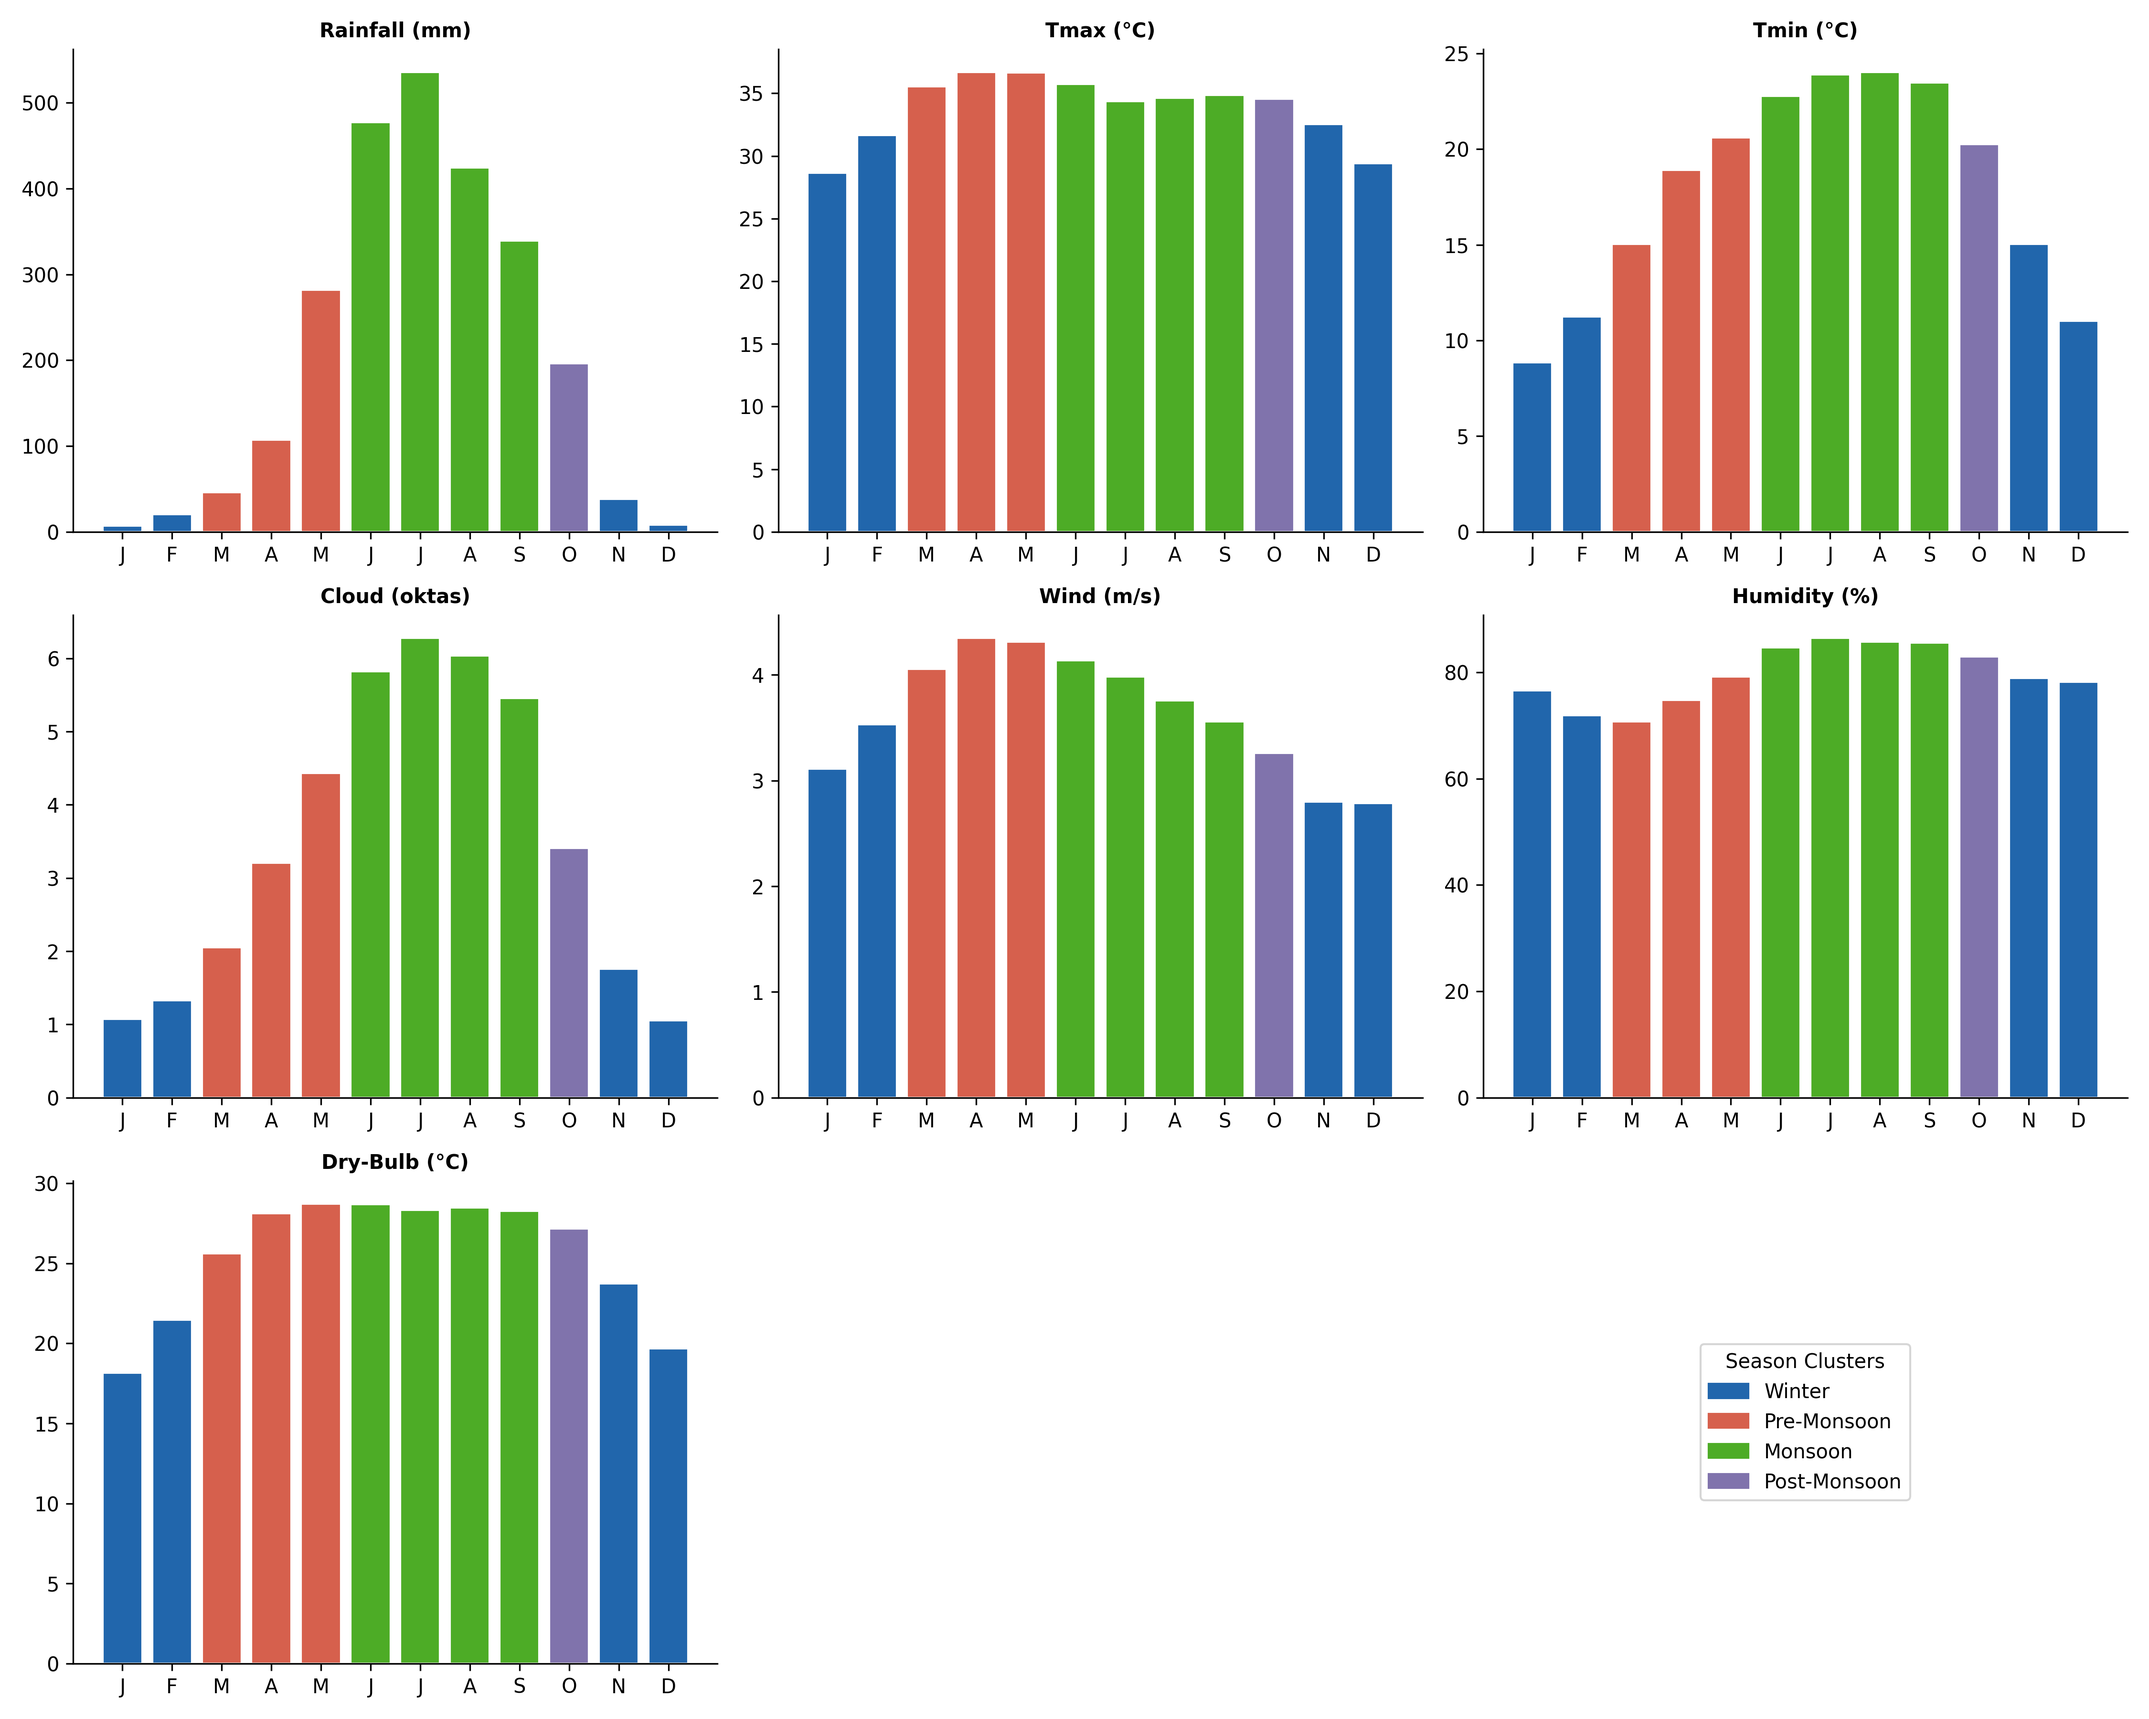
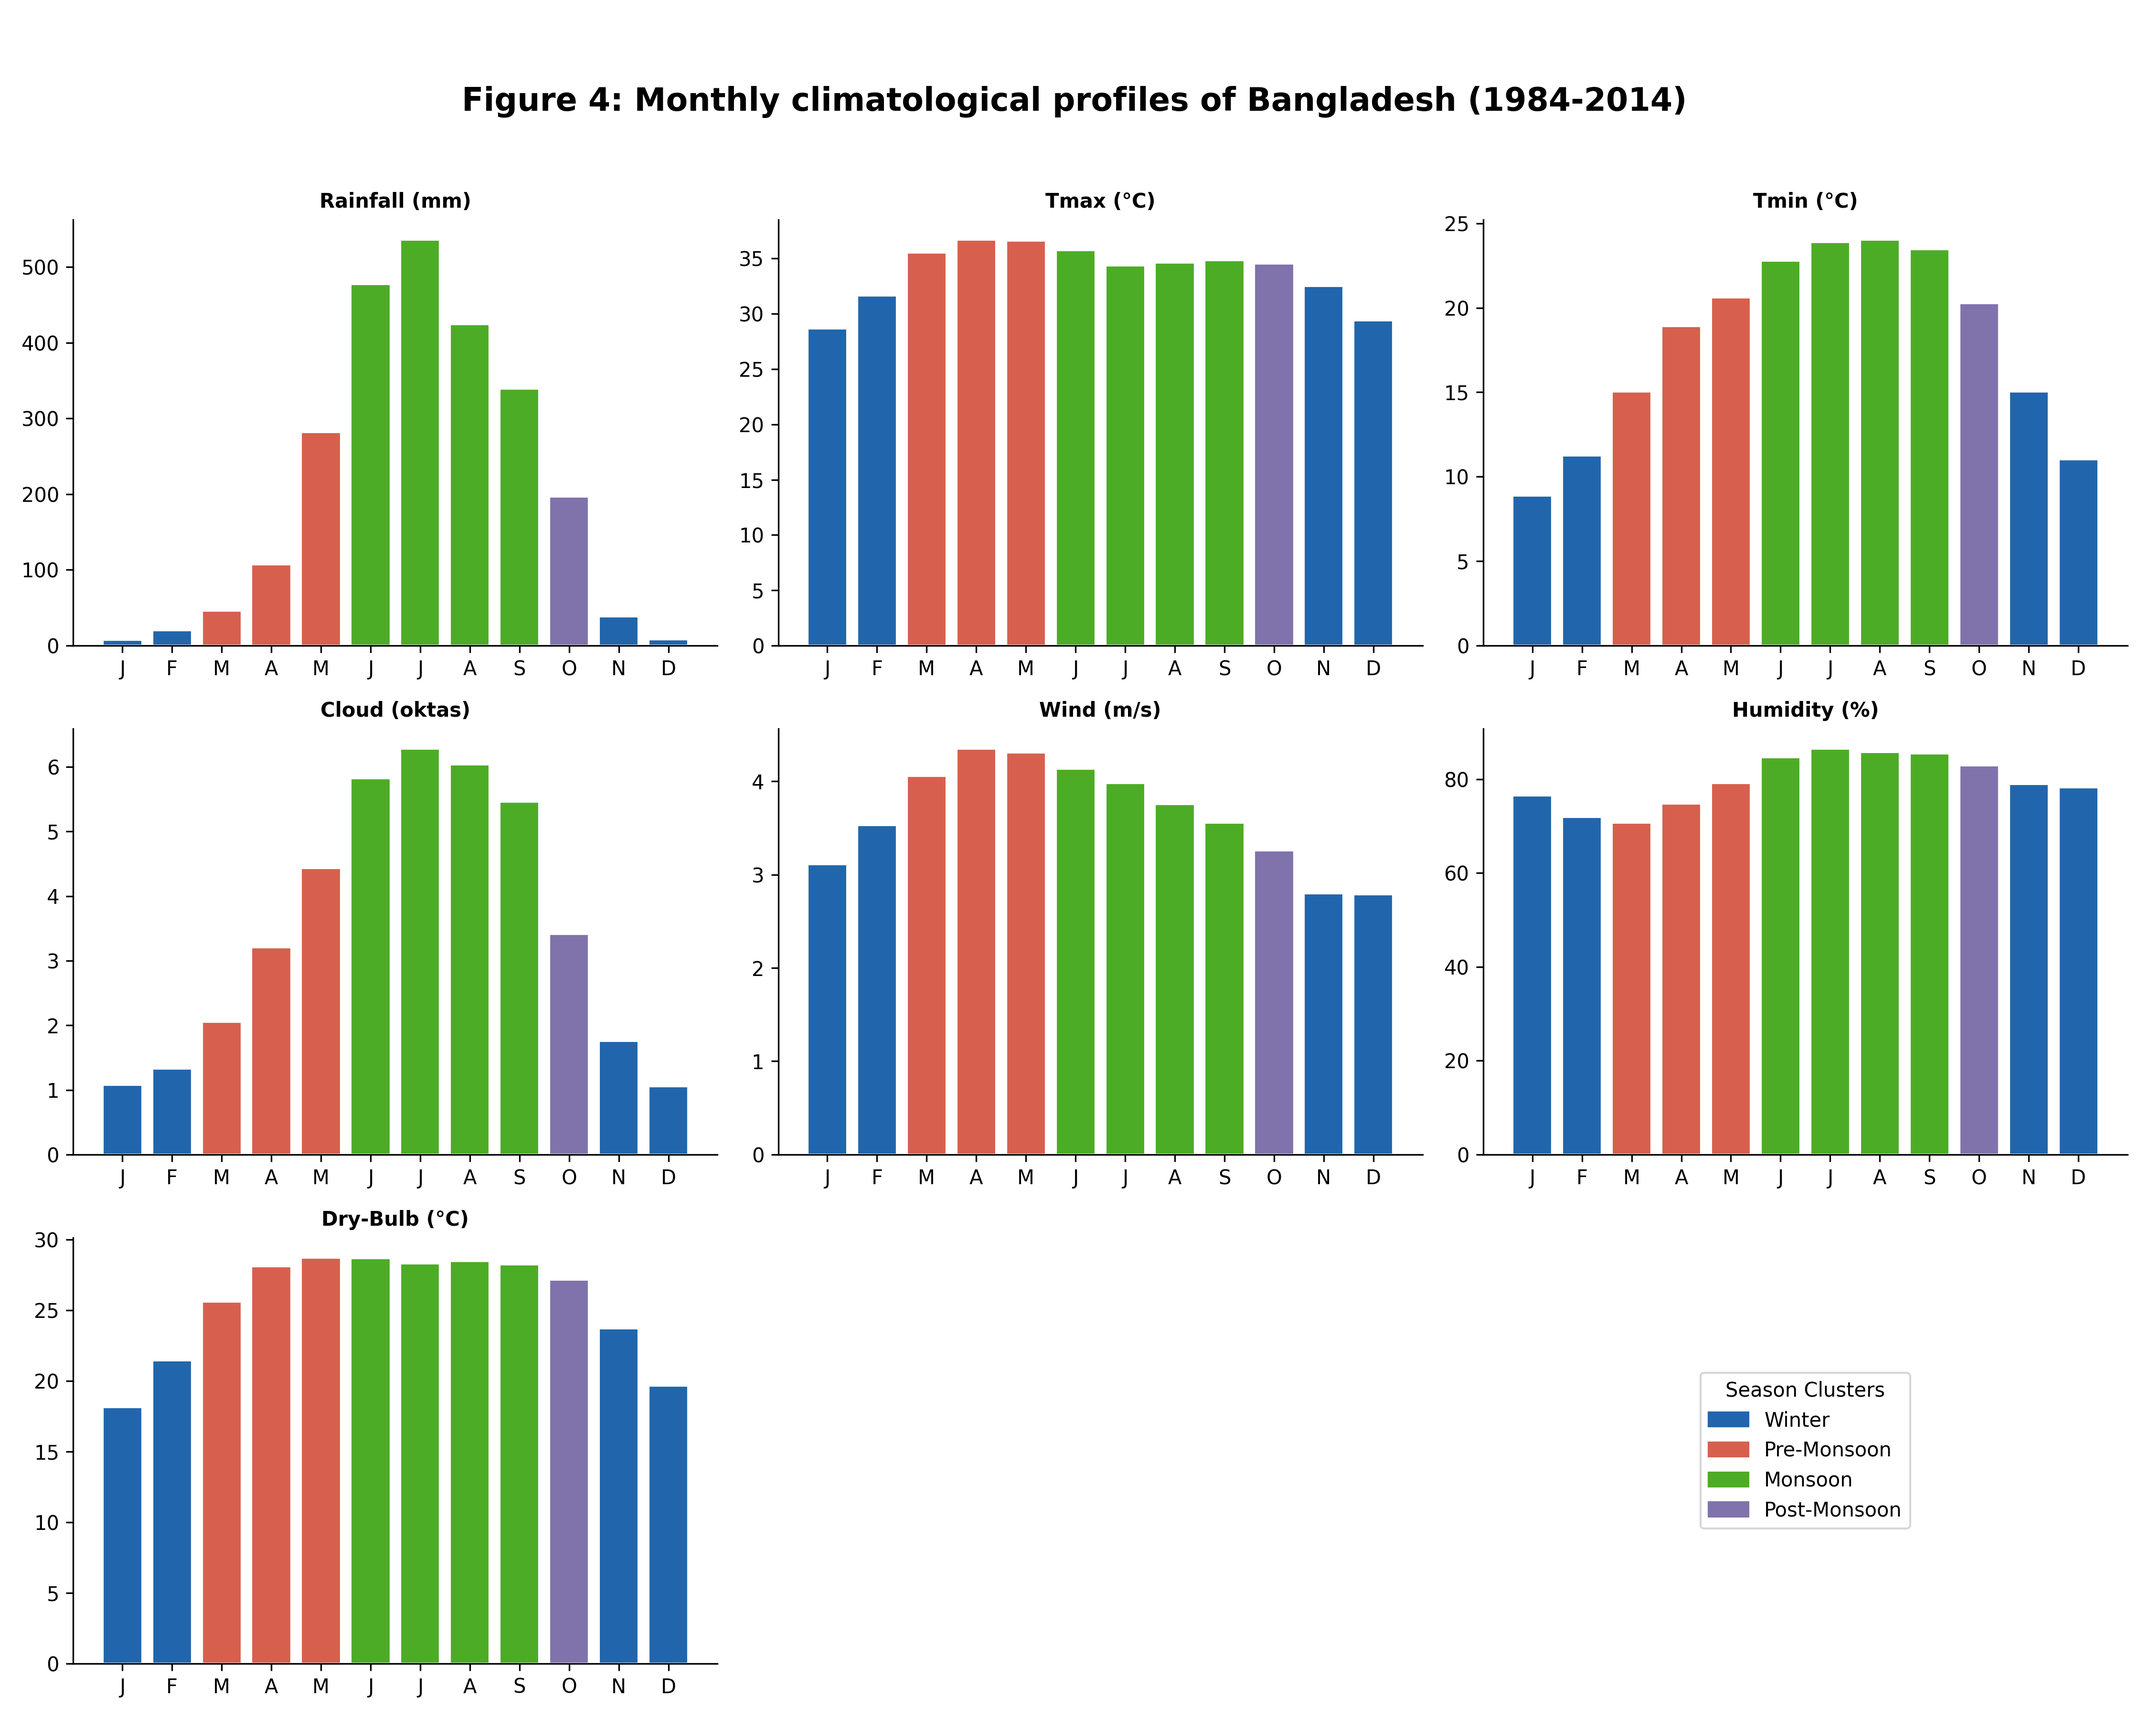
Update message

diff --git a/code/.py b/code/.py
@@ -53,6 +53,7 @@ else:
         'Monsoon': '#4DAC26', 'Post-Monsoon': '#8073AC'
     }
 
+    # Table 3 calculation
     table3 = profile.groupby('Season_Name')[vars_7].mean().reindex(['Winter', 'Pre-Monsoon', 'Monsoon', 'Post-Monsoon'])
     table3 = table3.round(3) 
     season_months = profile.reset_index().groupby('Season_Name')['Month'].apply(lambda x: ', '.join(x))
@@ -65,8 +66,10 @@ else:
     print(table3.to_string())
     print("="*70)
     
+    # FIGURE 4 SETUP
     fig4, axes = plt.subplots(3, 3, figsize=(15, 12), facecolor='white')
     
+    # মেইন টাইটেল এখানে সেট করা হয়েছে
     fig4.suptitle('Figure 4: Monthly climatological profiles of Bangladesh (1984-2014)', 
                   fontsize=16, fontweight='bold', y=0.95)
 
@@ -87,13 +90,14 @@ else:
     patches = [mpatches.Patch(color=v, label=k) for k, v in color_map.items()]
     axes.flatten()[8].legend(handles=patches, title='Season Clusters', loc='center')
 
-    plt.tight_layout(rect=[0, 0, 1, 0.93]) 
+    plt.tight_layout(rect=[0, 0, 1, 0.93]) # টাইটেলের জন্য জায়গা রাখা হয়েছে
     fig4_path = os.path.join(fig_path, 'Figure4_MonthlyProfiles.png')
     plt.savefig(fig4_path, dpi=300)
     plt.close()
 
     print(f"\n Success: Table 3 and Figure 4 saved.")
 
+    # FIGURE 5 (HEATMAP)
     plt.figure(figsize=(14, 7))
     scaled_df = pd.DataFrame(scaled_data.T, columns=month_order, index=[v.capitalize() for v in vars_7])
     

diff --git a/code/step_6_advanced_clustering_comparison.py b/code/step_6_advanced_clustering_comparison.py
@@ -33,9 +33,6 @@ else:
     scaler = StandardScaler()
     scaled = scaler.fit_transform(profile)
 
-    # ======================================================================
-    # FIGURE 6: CLUSTER VALIDATION METRICS 
-    # ======================================================================
     ks, sils, dbs, chs = [], [], [], []
     for k in range(2, 8):
         km = KMeans(n_clusters=k, random_state=42, n_init=10)
@@ -75,9 +72,6 @@ else:
     plt.savefig(os.path.join(fig_path, 'Figure6_Validation_Metrics.png'), dpi=300)
     plt.close()
 
-    # ======================================================================
-    # FIGURE 7: DENDROGRAM 
-    # ======================================================================
     Z = sch.linkage(scaled, method='ward')
     stable_dist = 2.53 
 
@@ -102,9 +96,6 @@ else:
     plt.savefig(os.path.join(fig_path, 'Figure7_Dendrogram.png'), dpi=300, bbox_inches='tight')
     plt.close()
 
-    # ======================================================================
-    # TABLE 2: K-MEANS VS GMM COMPARISON
-    # ======================================================================
     gmm = GaussianMixture(n_components=4, random_state=42).fit(scaled)
     gmm_lab = gmm.predict(scaled)
 
